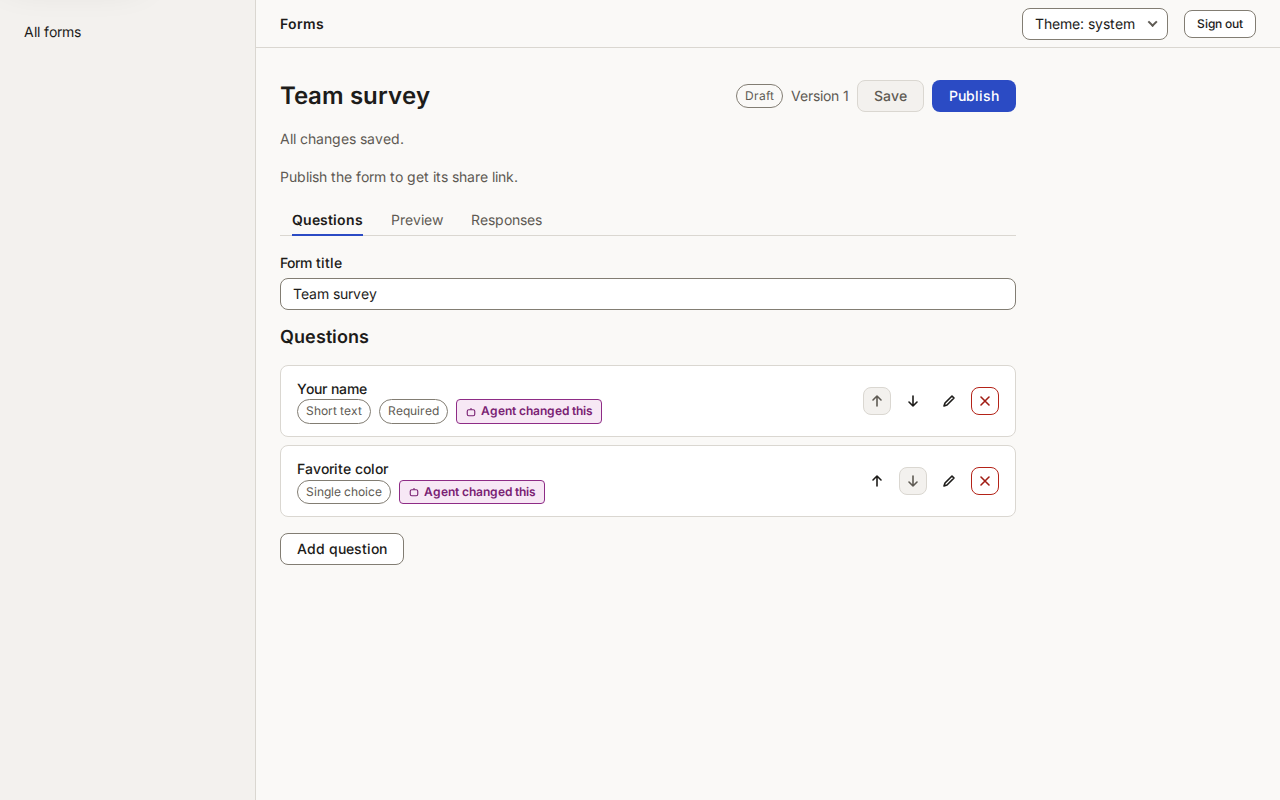
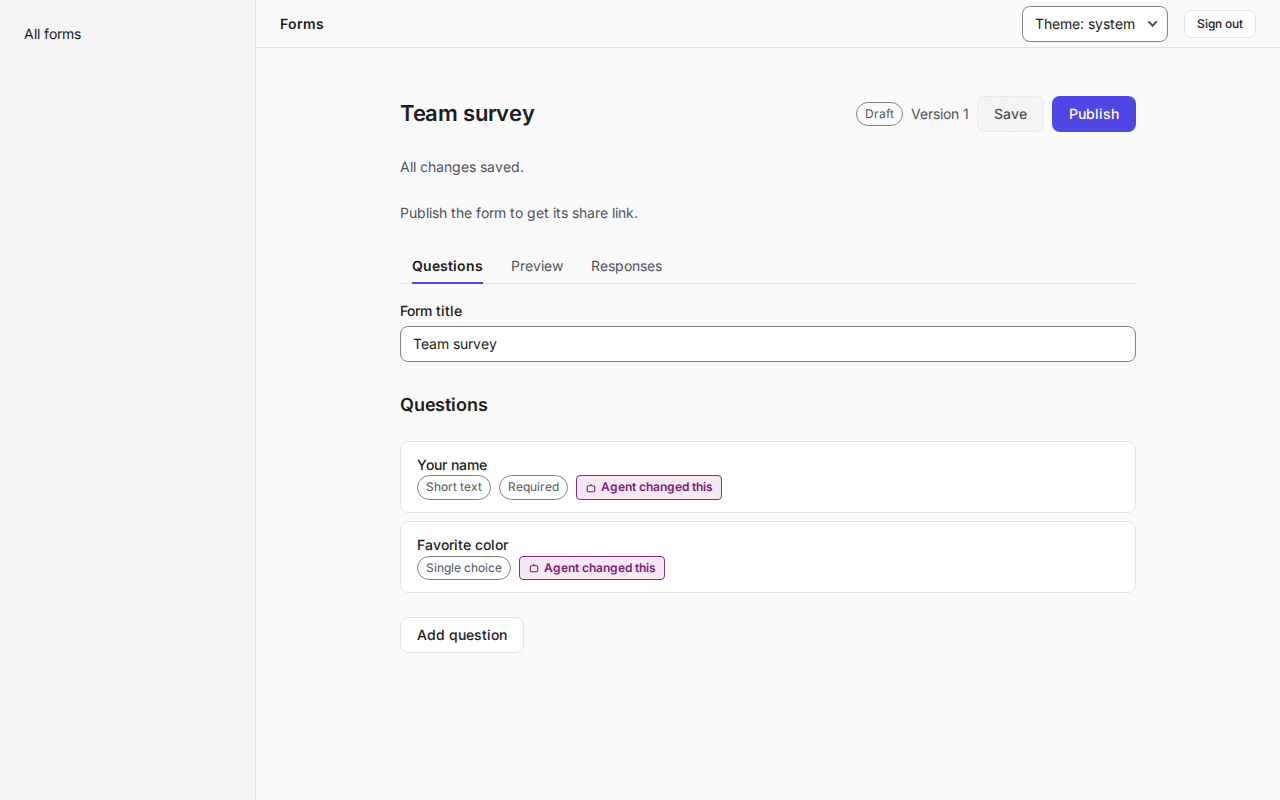
[FORMS-83] Calm look for the builder and form page (#84)
* [FORMS-83] Calm look for the builder and form page

Move to agentic-design 0.5. Add a question types menu, inline
rename, hover and focus row tools, and a calmer public form page.
Keep the before screenshots in docs/screenshots/before. Release 0.9.0.

* [FORMS-83] Fix review findings on inline rename

Return focus only on Enter and Escape, guard a late blur, ignore Enter
during IME composition, show row tools on any device that cannot hover,
and cover the Tab-away path in the test.

diff --git a/ui/Builder.tsx b/ui/Builder.tsx
@@ -1,13 +1,13 @@
 import { useEffect, useRef, useState } from "react";
-import { Button, IconButton, Input, Tabs, useToast } from "agentic-design/react";
+import { Button, IconButton, Input, Menu, Tabs, useToast } from "agentic-design/react";
 import type { Client } from "../src/client.js";
 import type { Form, Question, Section } from "../src/core/form.js";
 import { Preview } from "./Preview.js";
-import { QuestionDialog, typeLabel } from "./QuestionDialog.js";
+import { QuestionDialog, TYPES, typeLabel } from "./QuestionDialog.js";
 import { Responses } from "./Responses.js";
 import { AgentMark, ErrorBox, Gate, None, canon, isConflict, setUnsaved, useLoad } from "./lib.js";
 
-type Edit = { section: number; index: number | "new" };
+type Edit = { section: number; index: number | "new"; type?: Question["type"] };
 const icon = (d: string) => (
   <svg width="16" height="16" viewBox="0 0 16 16" fill="none" stroke="currentColor" strokeWidth="1.6" strokeLinecap="round" strokeLinejoin="round" aria-hidden="true">
     <path d={d} />
@@ -21,6 +21,7 @@ function Editor({ api, initial, reload, origin }: { api: Client; initial: Form; 
   const [sections, setSections] = useState<Section[]>(initial.sections);
   const [edit, setEdit] = useState<Edit | undefined>();
   const [opener, setOpener] = useState<HTMLElement | null>(null);
+  const [renaming, setRenaming] = useState<{ id: string; text: string } | undefined>();
   const [error, setError] = useState<unknown>();
   const [busy, setBusy] = useState<"save" | "publish" | undefined>();
   const toast = useToast();
@@ -35,6 +36,18 @@ function Editor({ api, initial, reload, origin }: { api: Client; initial: Form; 
       setUnsaved(false);
     };
   }, [dirty]);
+  const renameOpen = useRef(false);
+  const startRename = (id: string, text: string) => ((renameOpen.current = true), setRenaming({ id, text }));
+  const rename = (si: number, qi: number, text: string | undefined, refocus = false) => {
+    if (!renameOpen.current) return; // Enter or Escape already closed it: a late blur does nothing.
+    renameOpen.current = false;
+    setRenaming(undefined);
+    const q = sections[si]!.questions[qi]!;
+    const label = text?.trim();
+    if (label && label !== q.label) patch(si, sections[si]!.questions.map((x, i) => (i === qi ? { ...x, label } : x)));
+    // Enter and Escape put focus back on the name. Leaving by Tab or click keeps focus where the person went.
+    if (refocus) requestAnimationFrame(() => root.current?.querySelector<HTMLButtonElement>(`button[data-rename="${CSS.escape(q.id)}"]`)?.focus());
+  };
   // A change moves or removes the control that had focus. This puts focus back on a control that is still there.
   const root = useRef<HTMLDivElement>(null);
   const [refocus, setRefocus] = useState<{ label: string } | undefined>();
@@ -106,20 +119,39 @@ function Editor({ api, initial, reload, origin }: { api: Client; initial: Form; 
 
   const builder = (
     <div className="af-stack">
-      <Input label="Form title" value={title} onChange={(e) => setTitle(e.target.value)} />
+      <div className="af-title-field"><Input label="Form title" value={title} onChange={(e) => setTitle(e.target.value)} /></div>
       {sections.map((s, si) => (
         <section key={s.id} className="af-stack" aria-labelledby={`sec-${si}`}>
-          <h2 id={`sec-${si}`} style={{ margin: 0, fontSize: "var(--agd-font-size-lg)" }}>
+          <h2 id={`sec-${si}`} className="af-section-title">
             {s.title}
           </h2>
           {s.questions.length === 0 ? (
-            <None title="No questions in this section" description="Add the first question." />
+            <div className="af-empty-hint">
+              <None title="No questions in this section" description="Pick a type below to add the first question." />
+            </div>
           ) : (
             <ol className="af-list" aria-label={`Questions in ${s.title}`}>
               {s.questions.map((q, qi) => (
                 <li className="af-item" key={q.id}>
                   <div className="af-item__main">
-                    <div className="af-item__label">{q.label}</div>
+                    {renaming?.id === q.id ? (
+                      <input
+                        className="agd-input"
+                        aria-label={`Question: ${q.label}`}
+                        autoFocus
+                        value={renaming.text}
+                        onChange={(e) => setRenaming({ id: q.id, text: e.target.value })}
+                        onBlur={() => rename(si, qi, renaming.text)}
+                        onKeyDown={(e) => {
+                          if (e.key === "Enter" && !e.nativeEvent.isComposing) rename(si, qi, renaming.text, true);
+                          if (e.key === "Escape") rename(si, qi, undefined, true);
+                        }}
+                      />
+                    ) : (
+                      <button type="button" className="af-rename af-item__label" data-rename={q.id} aria-label={`Rename: ${q.label}`} title="Click to rename" onClick={() => startRename(q.id, q.label)}>
+                        {q.label}
+                      </button>
+                    )}
                     <div className="af-row">
                       <span className="af-tag">{typeLabel(q.type)}</span>
                       {q.required && <span className="af-tag">Required</span>}
@@ -127,7 +159,7 @@ function Editor({ api, initial, reload, origin }: { api: Client; initial: Form; 
                       {q.madeBy === "agent" && <AgentMark what="changed this" />}
                     </div>
                   </div>
-                  <div className="af-row">
+                  <div className="af-row af-item__tools">
                     <IconButton label={`Move up: ${q.label}`} icon={ICONS.up} size="sm" disabled={qi === 0} onClick={() => move(si, qi, -1)} />
                     <IconButton label={`Move down: ${q.label}`} icon={ICONS.down} size="sm" disabled={qi === s.questions.length - 1} onClick={() => move(si, qi, 1)} />
                     <IconButton label={`Edit: ${q.label}`} icon={ICONS.edit} size="sm" onClick={(e) => (setOpener(e.currentTarget), setEdit({ section: si, index: qi }))} />
@@ -137,8 +169,17 @@ function Editor({ api, initial, reload, origin }: { api: Client; initial: Form; 
               ))}
             </ol>
           )}
-          <div>
-            <Button data-add="" onClick={(e) => (setOpener(e.currentTarget), setEdit({ section: si, index: "new" }))}>Add question{sections.length > 1 ? ` to ${s.title}` : ""}</Button>
+          <div className="af-add">
+            <Menu
+              trigger={<Button data-add="" data-section={si}>Add question{sections.length > 1 ? ` to ${s.title}` : ""}</Button>}
+              items={TYPES.map((t) => ({
+                label: t.label,
+                onSelect: () => {
+                  setOpener(root.current?.querySelector<HTMLElement>(`button[data-add][data-section="${si}"]`) ?? null);
+                  setEdit({ section: si, index: "new", type: t.value });
+                },
+              }))}
+            />
           </div>
         </section>
       ))}
@@ -194,6 +235,7 @@ function Editor({ api, initial, reload, origin }: { api: Client; initial: Form; 
           key={`${edit.section}-${edit.index}`}
           open
           question={editing}
+          initialType={edit.type}
           earlier={earlier}
           taken={flat.map((q) => q.id)}
           onOpenChange={(open) => !open && closeDialog(opener)}

diff --git a/e2e-ui/ui.spec.ts b/e2e-ui/ui.spec.ts
@@ -28,11 +28,14 @@ const cspErrors = (page: Page) => {
   return seen;
 };
 
+const TYPE_LABELS: Record<string, string> = { short_text: "Short text", long_text: "Long text", number: "Number", email: "Email", single_choice: "Single choice", multi_choice: "Multiple choice", dropdown: "Dropdown", date: "Date", rating: "Rating", file: "File" };
 const addQuestion = async (page: Page, label: string, type: string, extra?: (dialog: ReturnType<Page["getByRole"]>) => Promise<void>) => {
+  // The types menu picks the type the dialog starts with.
   await page.getByRole("button", { name: /^Add question/ }).click();
+  await page.getByRole("menuitem", { name: TYPE_LABELS[type]! }).click();
+  await expect(page.getByRole("dialog", { name: "Add question" }).getByLabel("Type")).toHaveValue(type);
   const dialog = page.getByRole("dialog", { name: "Add question" });
   await dialog.getByLabel("Question", { exact: true }).fill(label);
-  await dialog.getByLabel("Type").selectOption(type);
   await extra?.(dialog);
   await dialog.getByRole("button", { name: "Add question" }).click();
   await expect(dialog).toBeHidden();
@@ -76,6 +79,8 @@ test("sign in, build a form, publish, fill it by link, read the response, reload
     await d.getByLabel("Required").check();
   });
   await page.getByRole("button", { name: /^Add question/ }).click();
+  await audit(page, "04-question-menu");
+  await page.getByRole("menuitem", { name: "Short text" }).click();
   await audit(page, "04-question-dialog");
   await page.keyboard.press("Escape");
   await addQuestion(page, "Favorite color", "single_choice", async (d) => {
@@ -88,6 +93,28 @@ test("sign in, build a form, publish, fill it by link, read the response, reload
   await page.getByRole("button", { name: "Edit: Throwaway" }).click();
   await page.getByRole("dialog", { name: "Edit question" }).getByLabel("Question", { exact: true }).fill("Team size");
   await page.getByRole("button", { name: "Save question" }).click();
+  // Click a name to rename it in place: Escape keeps the old name, Enter keeps the new one.
+  await page.getByRole("button", { name: "Rename: Your name" }).click();
+  await page.getByLabel("Question: Your name").fill("Ignored");
+  await page.keyboard.press("Escape");
+  await expectQuestions(page, ["Your name", "Favorite color", "Team size"]);
+  await expect(page.getByRole("button", { name: "Rename: Your name" })).toBeFocused();
+  await page.getByRole("button", { name: "Rename: Your name" }).click();
+  await page.getByLabel("Question: Your name").fill("Full name");
+  await page.keyboard.press("Enter");
+  await expectQuestions(page, ["Full name", "Favorite color", "Team size"]);
+  await page.getByRole("button", { name: "Rename: Full name" }).click();
+  await page.getByLabel("Question: Full name").fill("Your name");
+  await page.keyboard.press("Enter");
+  // Leaving the field by Tab commits the name and leaves focus where the person went.
+  await page.getByRole("button", { name: "Rename: Your name" }).click();
+  await page.getByLabel("Question: Your name").fill("Tabbed");
+  await page.keyboard.press("Tab");
+  await expectQuestions(page, ["Tabbed", "Favorite color", "Team size"]);
+  await expect(page.getByRole("button", { name: "Move down: Tabbed" })).toBeFocused();
+  await page.getByRole("button", { name: "Rename: Tabbed" }).click();
+  await page.getByLabel("Question: Tabbed").fill("Your name");
+  await page.keyboard.press("Enter");
   await page.getByRole("button", { name: "Move up: Team size" }).click();
   await expectQuestions(page, ["Your name", "Team size", "Favorite color"]);
   await page.getByRole("button", { name: "Remove: Team size" }).click();
@@ -281,4 +308,21 @@ test("the built ./ui export mounts in a host page, lists forms, and unmounts", a
   await page.evaluate(() => (window as never as { handle: { unmount(): void } }).handle.unmount());
   await expect(page.locator("#forms")).toBeEmpty();
   expect(errors).toEqual([]);
+});
+
+test("the builder stays inside a 390px screen and the row tools stay reachable by keyboard", async ({ page, request }) => {
+  await signIn(page);
+  const id = `small-${Date.now().toString(36)}`;
+  const long = "A long question that has to wrap on a small screen without cutting any word";
+  await request.post("/api/v1/forms", { headers: { authorization: `Bearer ${TOKEN}` }, data: { id, title: "Small", sections: [{ id: "main", title: "Questions", questions: [{ id: "a", type: "short_text", label: long }] }] } });
+  await page.setViewportSize({ width: 390, height: 800 });
+  await page.goto(`/ui/#/forms/${id}`);
+  await expect(page.getByRole("button", { name: `Rename: ${long}` })).toBeVisible();
+  // Nothing is wider than the screen.
+  expect(await page.evaluate(() => document.documentElement.scrollWidth <= innerWidth)).toBe(true);
+  // The hover-only tools show when focus is inside the row.
+  await page.getByRole("button", { name: `Rename: ${long}` }).focus();
+  await expect(page.getByRole("button", { name: `Edit: ${long}` })).toBeVisible();
+  await expect.poll(() => page.getByRole("button", { name: `Edit: ${long}` }).evaluate((el) => getComputedStyle(el.parentElement!).opacity)).toBe("1");
+  await page.screenshot({ path: `${SHOTS}/12-builder-narrow.png` });
 });

diff --git a/src/page.ts b/src/page.ts
@@ -1,24 +1,26 @@
 // The public fill page: one self-contained HTML document. No CDN, no third-party
 // script. The look comes from the agentic-design tokens, which the Worker serves at /ui/styles.css (self-hosted fonts); system fonts remain the fallback. Built for WCAG 2.2 AA: labels on every control,
-// visible focus, 44px targets, a text error summary, and no color-only cues.
+// visible focus, 40px targets (AA 2.5.8 needs 24px), a text error summary, and no color-only cues.
 import type { Form, Question } from "./core/form.js";
 
 const ESCAPES: Record<string, string> = { "&": "&amp;", "<": "&lt;", ">": "&gt;", '"': "&quot;", "'": "&#39;" };
 const esc = (text: string): string => text.replace(/[&<>"']/g, (c) => ESCAPES[c]);
 
 const STYLE = `
-body{margin:0;font:var(--agd-font-size-lg,1.125rem)/1.6 var(--agd-font-family-sans,system-ui,sans-serif);color:var(--agd-color-text,#1a1a1a);background:var(--agd-color-bg,#fff)}
-main{max-width:40rem;margin:0 auto;padding:1.5rem 1rem 4rem}
-fieldset{border:1px solid var(--agd-color-border-strong,#595959);border-radius:var(--agd-radius-md,4px);padding:1rem;margin:0 0 1.5rem}
-legend{font-weight:600;padding:0 .25rem}
-label{display:block;font-weight:600;margin:.75rem 0 .25rem}
-.opt{display:flex;gap:.5rem;align-items:center;min-height:44px}
+body{margin:0;font:var(--agd-font-size-md,1rem)/1.6 var(--agd-font-family-sans,system-ui,sans-serif);color:var(--agd-color-text,#1a1a1a);background:var(--agd-color-bg,#fff)}
+main{max-width:36rem;margin:0 auto;padding:3rem 1.25rem 5rem}
+h1{font-size:var(--agd-font-size-xl,1.5rem);line-height:1.25;margin:0 0 2rem;font-weight:600;letter-spacing:-.01em}
+fieldset{border:1px solid var(--agd-color-border,#d4d4d8);border-radius:var(--agd-radius-md,8px);padding:1rem 1.25rem;margin:0 0 1.5rem;background:var(--agd-color-surface,#fff)}
+legend{font-weight:500;padding:0 .25rem}
+label{display:block;font-weight:500;margin:1.25rem 0 .375rem}
+.opt{display:flex;gap:.625rem;align-items:center;min-height:2.5rem}
 .opt label{margin:0;font-weight:400}
-input[type=checkbox],input[type=radio]{width:1.5rem;height:1.5rem;flex:none;accent-color:var(--agd-color-accent,#0b57d0)}
-input:not([type=checkbox]):not([type=radio]),textarea,select{width:100%;box-sizing:border-box;min-height:44px;padding:.5rem;font:inherit;color:inherit;background:var(--agd-color-surface,#fff);border:2px solid var(--agd-color-border-strong,#595959);border-radius:var(--agd-radius-sm,4px)}
-:focus-visible{outline:3px solid var(--agd-color-focus,#0b57d0);outline-offset:2px}
-button{min-height:44px;padding:.5rem 1.5rem;font:inherit;font-weight:600;color:var(--agd-color-text-on-accent,#fff);background:var(--agd-color-accent,#0b57d0);border:2px solid var(--agd-color-accent,#0b57d0);border-radius:var(--agd-radius-sm,4px);cursor:pointer}
-#errors{border:3px solid var(--agd-color-danger,#b3261e);padding:1rem;margin:0 0 1.5rem}
+input[type=checkbox],input[type=radio]{width:1.25rem;height:1.25rem;flex:none;accent-color:var(--agd-color-accent,#0b57d0)}
+input:not([type=checkbox]):not([type=radio]),textarea,select{width:100%;box-sizing:border-box;min-height:2.5rem;padding:.5rem .75rem;font:inherit;color:inherit;background:var(--agd-color-surface,#fff);border:1px solid var(--agd-color-border-strong,#595959);border-radius:var(--agd-radius-md,8px)}
+:focus-visible{outline:2px solid var(--agd-color-focus,#0b57d0);outline-offset:2px}
+button{min-height:2.5rem;padding:.5rem 1.5rem;font:inherit;font-weight:500;color:var(--agd-color-text-on-accent,#fff);background:var(--agd-color-accent,#0b57d0);border:1px solid var(--agd-color-accent,#0b57d0);border-radius:var(--agd-radius-md,8px);cursor:pointer}
+#errors{border:1px solid var(--agd-color-danger,#b3261e);border-radius:var(--agd-radius-md,8px);background:var(--agd-color-danger-subtle,#fff);padding:1rem;margin:0 0 1.5rem}
+#done{padding:1.5rem;border:1px solid var(--agd-color-border,#d4d4d8);border-radius:var(--agd-radius-md,8px)}
 .req{font-weight:400}
 .notice{white-space:pre-line}
 [hidden]{display:none!important}`;

diff --git a/ui/app.css b/ui/app.css
@@ -1,12 +1,13 @@
-.af-stack { display: grid; gap: var(--agd-space-4); }
+.af-stack { display: grid; gap: var(--agd-space-6); }
 .af-row { display: flex; flex-wrap: wrap; align-items: center; gap: var(--agd-space-2); }
 .af-row--between { justify-content: space-between; }
-.af-page { max-width: var(--agd-size-content); }
+.af-page { max-width: var(--agd-size-content); margin-inline: auto; padding-block: var(--agd-space-4); }
 .af-title { margin: 0; font-size: var(--agd-font-size-xl); line-height: var(--agd-line-height-tight); }
 .af-muted { color: var(--agd-color-text-muted); }
 .af-card { padding: var(--agd-space-4); border: 1px solid var(--agd-color-border); border-radius: var(--agd-radius-md); background: var(--agd-color-surface); }
 .af-list { display: grid; gap: var(--agd-space-2); margin: 0; padding: 0; list-style: none; }
-.af-item { display: flex; flex-wrap: wrap; align-items: center; gap: var(--agd-space-3); padding: var(--agd-space-3) var(--agd-space-4); border: 1px solid var(--agd-color-border); border-radius: var(--agd-radius-md); background: var(--agd-color-surface); }
+.af-item { position: relative; display: flex; flex-wrap: wrap; align-items: center; gap: var(--agd-space-3); padding: var(--agd-space-3) var(--agd-space-4); border: 1px solid var(--agd-color-border); border-radius: var(--agd-radius-md); background: var(--agd-color-surface); transition: border-color 120ms; }
+.af-item:hover, .af-item:focus-within { border-color: var(--agd-color-border-strong); }
 .af-item__main { flex: 1 1 12rem; min-width: 0; }
 .af-item__label { font-weight: var(--agd-font-weight-medium); overflow-wrap: anywhere; }
 .af-link { color: var(--agd-color-accent-text); text-underline-offset: 0.15em; }
@@ -27,3 +28,17 @@
 .af-code { font-family: var(--agd-font-family-mono); font-size: var(--agd-font-size-sm); overflow-wrap: anywhere; }
 .af-loading { display: flex; align-items: center; gap: var(--agd-space-2); color: var(--agd-color-text-muted); }
 .af-signin { max-width: 26rem; margin: var(--agd-space-24) auto; }
+
+.af-section-title { margin: 0; font-size: var(--agd-font-size-lg); font-weight: var(--agd-font-weight-semibold); }
+.af-item__tools { opacity: 0; transition: opacity 120ms; }
+.af-item:hover .af-item__tools, .af-item:focus-within .af-item__tools { opacity: 1; }
+@media (any-hover: none), (pointer: coarse) { .af-item__tools { opacity: 1; } }
+@media (prefers-reduced-motion: reduce) { .af-item, .af-item__tools { transition: none; } }
+.af-rename { all: unset; box-sizing: border-box; display: block; max-width: 100%; padding: 0 var(--agd-space-1); margin-inline: calc(var(--agd-space-1) * -1); border-radius: var(--agd-radius-sm); font-weight: var(--agd-font-weight-medium); overflow-wrap: anywhere; cursor: text; }
+.af-rename:hover { background: var(--agd-color-surface-sunken); }
+.af-rename:focus-visible { outline: 2px solid var(--agd-color-focus); outline-offset: 2px; }
+.af-title-field { margin-bottom: var(--agd-space-2); }
+.af-add { display: flex; }
+.af-empty-hint { padding: var(--agd-space-6) var(--agd-space-4); border: 1px dashed var(--agd-color-border-strong); border-radius: var(--agd-radius-md); text-align: center; }
+.af-table tbody tr:hover td { background: var(--agd-color-surface-sunken); }
+.af-table-wrap:focus-visible { outline: 2px solid var(--agd-color-focus); outline-offset: 2px; }

diff --git a/ui/QuestionDialog.tsx b/ui/QuestionDialog.tsx
@@ -27,6 +27,8 @@ const num = (text: string) => (text.trim() === "" || !Number.isFinite(Number(tex
 interface Props {
   /** The question to edit, or undefined for a new one. */
   question?: Question;
+  /** The type a new question starts with. */
+  initialType?: QuestionType;
   /** Questions that come earlier in the form. A condition may read only these. */
   earlier: Question[];
   taken: string[];
@@ -35,12 +37,12 @@ interface Props {
   onSave: (question: Question) => void;
 }
 
-export function QuestionDialog({ question, earlier, taken, open, onOpenChange, onSave }: Props) {
+export function QuestionDialog({ question, initialType, earlier, taken, open, onOpenChange, onSave }: Props) {
   const r = question?.rules ?? {};
   const [label, setLabel] = useState(question?.label ?? "");
   const [id, setId] = useState(question?.id ?? "");
   const [idTouched, setIdTouched] = useState(false);
-  const [type, setType] = useState<QuestionType>(question?.type ?? "short_text");
+  const [type, setType] = useState<QuestionType>(question?.type ?? initialType ?? "short_text");
   const [required, setRequired] = useState(question?.required ?? false);
   const [choices, setChoices] = useState((question?.choices ?? []).join("\n"));
   const [min, setMin] = useState(String(r.min ?? ""));

diff --git a/CHANGELOG.md b/CHANGELOG.md
@@ -2,6 +2,17 @@
 
 This file lists what changed in each release. The versions follow semver. The API can still change before 1.0.
 
+## 0.9.0 - 2026-10-29
+
+### Changed
+
+- The `/ui` app and the public form page at `/f/<id>` have a calmer look. Spacing is wider, borders are one pixel, and the form page uses a smaller type scale. The look follows Tiny Little Office (https://tinylittleoffice.com, MIT): quiet neutrals and soft borders. No code is copied.
+- The builder has an "Add question" menu. Pick a type from the menu, and the dialog opens with that type chosen. The Type field stays in the dialog.
+- Click a question name in the builder to rename it in place. Enter keeps the new name, and Escape keeps the old one.
+- The reorder, edit, and remove buttons of a row show when the row has the pointer or the keyboard focus. On a touch screen, or a device that cannot hover, they always show.
+- The empty section and the responses table use the quieter look, with a row highlight in the table.
+- Move to `agentic-design` 0.5.x. Only token values changed, so no code that reads the semantic tokens needs an edit.
+
 ## 0.8.0 - 2026-10-29
 
 Breaking changes. Read these before you upgrade from 0.7.0:

diff --git a/README.md b/README.md
@@ -15,7 +15,7 @@ Build forms and collect answers into tables.
 npm install agentic-forms
 ```
 
-It needs Node 22 or newer. It depends on `agentic-identity` 0.7.x and `agentic-design` 0.4.x.
+It needs Node 22 or newer. It depends on `agentic-identity` 0.7.x and `agentic-design` 0.5.x.
 
 ## Quick start
 
